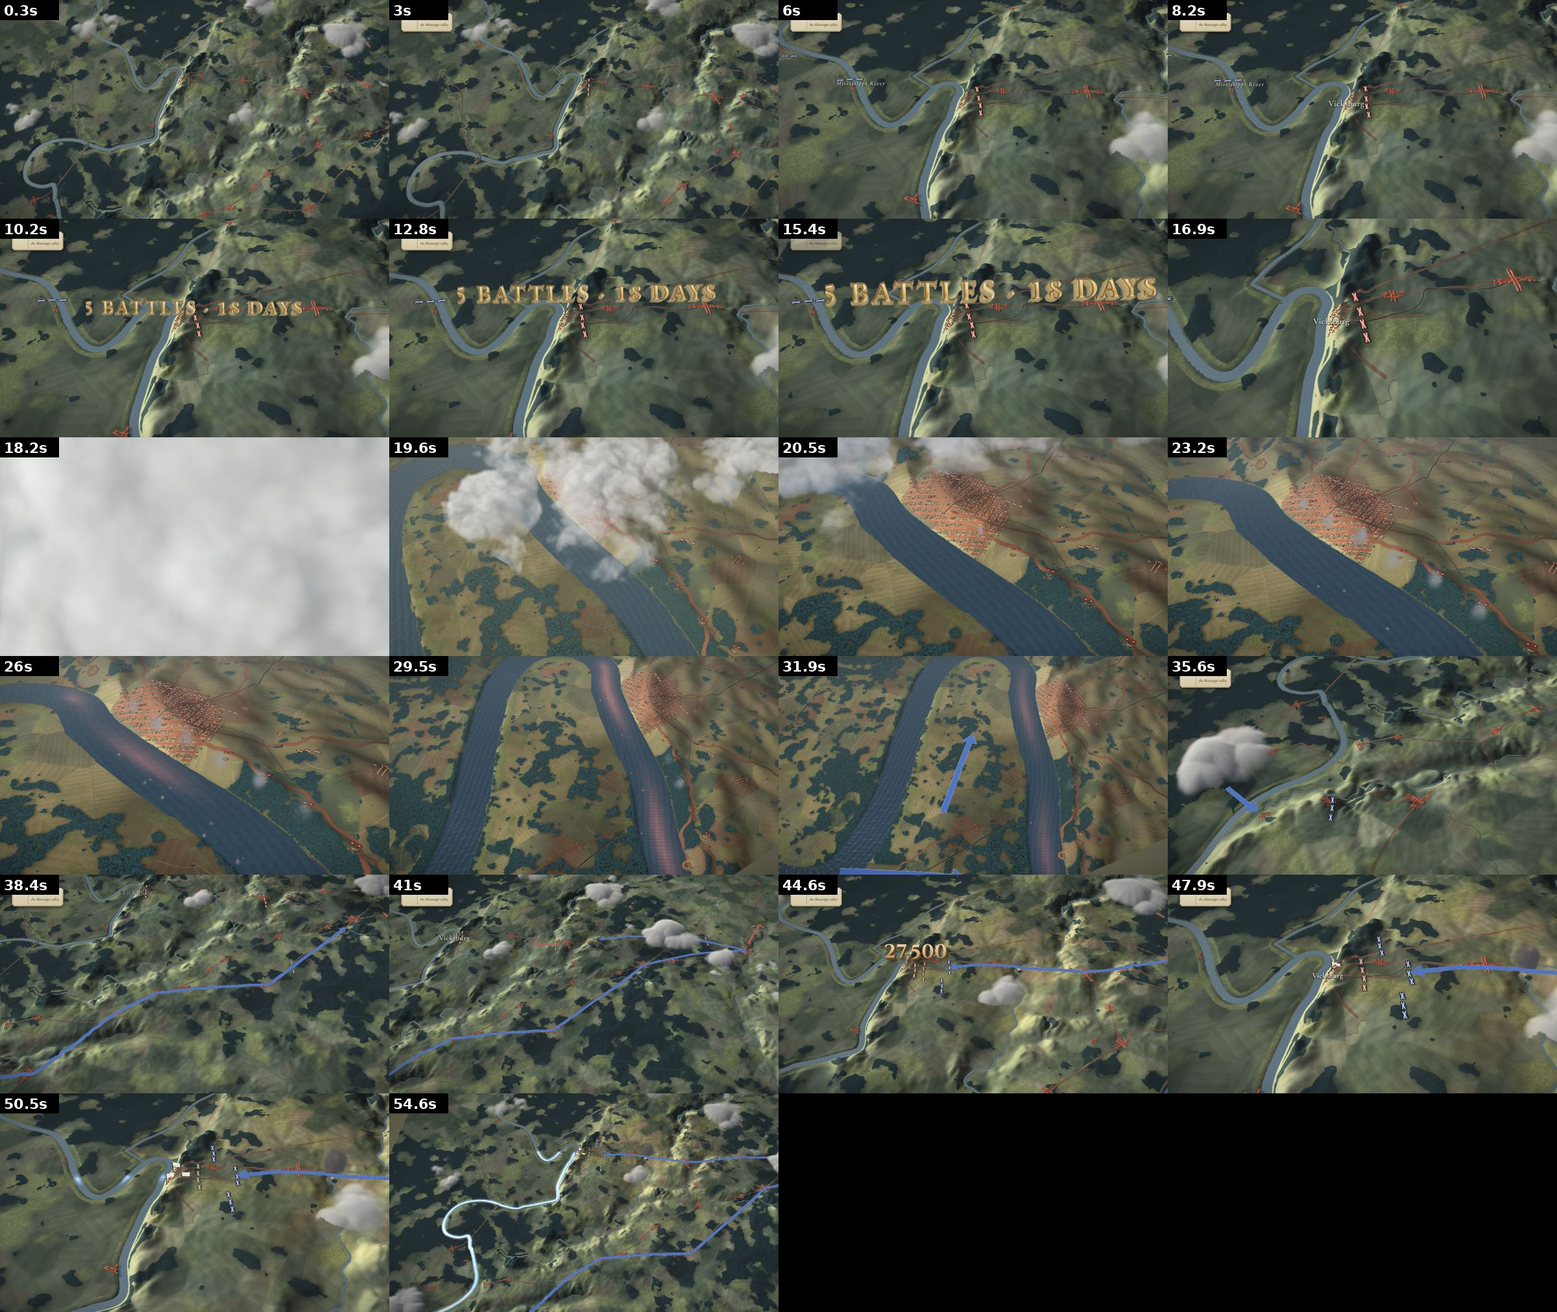
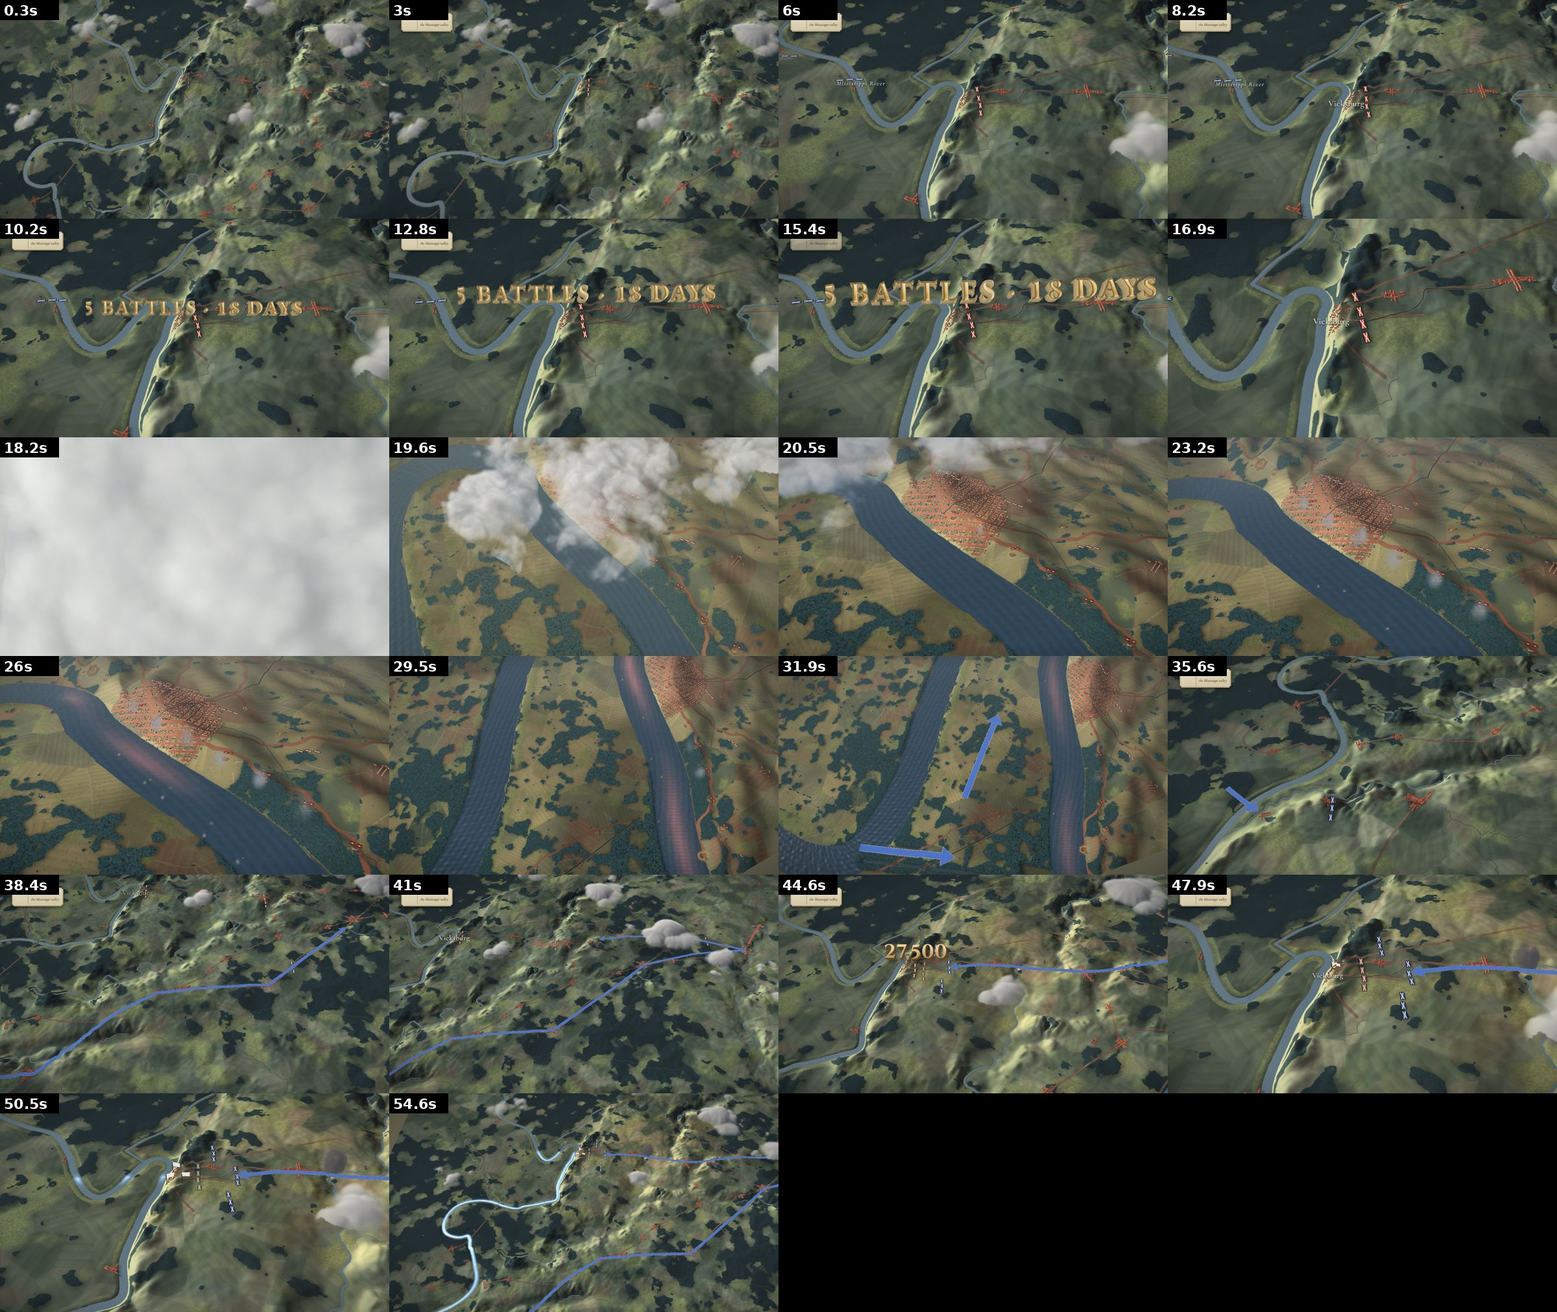
Vicksburg #19: scenes S01 cold open + S03 night run; cues accept singular fx kinds in list form
Claude-Session: https://claude.ai/code/session_011uJnjA7y1mRFw6KPGY1APG

Changed region(s): [[0.25, 0.4985, 0.8125, 0.6855], [0.4375, 0.8412, 0.5, 0.9036], [0.25, 0.9659, 0.2812, 1.0]]

diff --git a/vicksburg/sequences/S02/seq.js b/vicksburg/sequences/S02/seq.js
@@ -118,13 +118,12 @@ const arrows = [
   { region: WD, side: R, pts: [[1060, 742], [1180, 730], [1290, 712], [1372, 694]], t0: T.southC, dur: 1.2, t1: 65.6, width: 0.42 },
   // E: Chickasaw Bayou: the attack on the bluffs
   { region: WD, side: U, pts: [[1382, 600], [1392, 612], [1402, 624], [1410, 632]], t0: T.attacked, dur: 1.2, t1: T.thrown + 0.6, width: 0.42 },
-  // E: Grant's Canal across De Soto Point; the Duckport canal; the Yazoo routes from the north through the flooded forests (stopped short)
-  { region: WD, side: U, pts: [[1323, 694], [1334, 700], [1346, 707], [1358, 714]], t0: T.canals, dur: 1.2, t1: T.failed + 0.6, width: 0.36 },
-  { region: WD, side: U, pts: [[1284, 644], [1270, 664], [1252, 690], [1236, 716]], t0: T.bends - 0.2, dur: 1.2, t1: T.failed + 0.6, width: 0.32 },
-  { region: WD, side: U, pts: [[1410, 352], [1424, 400], [1438, 450], [1448, 494], [1452, 516]], t0: T.cutThrough, dur: 1.6, t1: T.failed + 0.6, width: 0.4 },
+  // E: Grant's Canal across De Soto Point; the Yazoo routes from the north through the flooded forests (stopped short)
+  { region: WD, side: U, pts: [[1323, 694], [1334, 700], [1346, 707], [1358, 714]], t0: T.canals, dur: 1.2, t1: T.failed + 0.6, width: 0.24 },
+  { region: WD, side: U, pts: [[1492, 424], [1482, 458], [1468, 490], [1454, 516]], t0: T.cutThrough, dur: 1.6, t1: T.failed + 0.6, width: 0.4 },
   // G: the plan: down the west bank; the fleet past the guns; the crossing
   { region: WD, side: U, pts: WBthin.filter((_, i) => i % 3 === 0 || i === WBthin.length - 1), t0: T.march, dur: T.city + 0.4 - T.march, t1: D + 1, width: 0.42 },
-  { region: WD, side: U, pts: RIV_RUN, t0: T.run, dur: 3.2, t1: D + 1, width: 0.36 },
+  { region: WD, side: U, pts: RIV_RUN, t0: T.run, dur: 3.2, t1: D + 1, width: 0.28 },
   { region: WD, side: U, pts: [[HT[0] - 4, HT[1] + 16], [HT[0] + 12, HT[1] + 30], [GG[0] + 4, GG[1] + 6]], t0: T.carry - 0.2, dur: 1.0, t1: D + 1, width: 0.48 },
   // H: Sherman's alternative: back north and try again by land (a thin ghost arrow off the top of the map)
   { region: WD, side: U, pts: [[MB[0] + 6, MB[1] - 4], [MB[0] + 10, MB[1] - 50], [MB[0] + 2, MB[1] - 110], [MB[0] - 6, MB[1] - 170]], t0: T.backNorth, dur: 1.4, t1: T.but + 0.6, width: 0.3 },
@@ -143,7 +142,7 @@ const fx = {
 
 // ---------------- the boats ----------------
 const boats = [
-  { region: VB, kind: "steamer", n: 1, size: 0.55, path: RIVC, sAt: () => 0, t0: 22.6, t1: CUT2, lamp: false },   // (sAt replaced below)
+  { region: VB, kind: "steamer", n: 1, size: 0.95, path: RIVC, sAt: () => 0, t0: 22.6, t1: CUT2, lamp: false },   // (sAt replaced below)
   // G: the fleet runs down past the city to Hard Times (plan, wide)
   { region: WD, kind: ["gunboat", "gunboat", "gunboat", "steamer", "steamer"], n: 5, size: 3.6, path: RIV_RUN,
     sAt: (t, i) => Math.max(0, (t - T.run) * 34 - i * 9), t0: T.navy, t1: D + 1, lamp: false },
@@ -153,45 +152,47 @@ boats[0].sAt = (t) => sSm(t);
 // ---------------- camera ----------------
 const keys = [
   // A: the river from altitude
-  { t: 0, region: WD, at: [1262, 842], dist: 840, tilt: 36, yaw: 1, fov: 30 },
-  { t: 10.8, region: WD, at: [1258, 860], dist: 800, tilt: 38, yaw: 0, fov: 30 },
-  { t: CUT1, region: WD, at: [1262, 820], dist: 720, tilt: 40, yaw: -1, fov: 30 },
+  { t: 0, region: WD, at: [1336, 846], dist: 620, tilt: 38, yaw: 0, fov: 30 },
+  { t: 10.8, region: WD, at: [1332, 856], dist: 600, tilt: 38, yaw: 0, fov: 30 },
+  { t: CUT1, region: WD, at: [1334, 826], dist: 570, tilt: 40, yaw: -1, fov: 30 },
   // B: the bend + the bluffs
-  { t: CUT1, region: VB, at: [1356, 676], dist: 92, tilt: 46, yaw: -28, fov: 32, ease: "cut" },
+  { t: CUT1, region: VB, at: [1358, 678], dist: 88, tilt: 40, yaw: -28, fov: 32, ease: "cut" },
   { t: 28.0, region: VB, at: [1366, 674], dist: 78, tilt: 48, yaw: -40, fov: 32 },
   { t: 33.0, region: VB, at: [1376, 678], dist: 70, tilt: 50, yaw: -52, fov: 32 },
-  { t: 39.2, region: VB, at: [1368, 676], dist: 96, tilt: 44, yaw: -20, fov: 32 },
+  { t: 39.2, region: VB, at: [1368, 676], dist: 92, tilt: 40, yaw: -20, fov: 32 },
   // C: the city + Pemberton
   { t: 44.0, region: VB, at: [1388, 681], dist: 52, tilt: 50, yaw: -48, fov: 32 },
   { t: 51.6, region: VB, at: [1390, 680], dist: 48, tilt: 51, yaw: -56, fov: 32 },
   { t: CUT2, region: VB, at: [1382, 676], dist: 72, tilt: 47, yaw: -40, fov: 32 },
   // D: the stakes line (wide, the map tilts)
-  { t: CUT2, region: WD, at: [1300, 800], dist: 700, tilt: 42, yaw: 0, fov: 30, ease: "cut" },
-  { t: 64.4, region: WD, at: [1300, 820], dist: 640, tilt: 28, yaw: 4, fov: 30 },
+  { t: CUT2, region: WD, at: [1320, 820], dist: 620, tilt: 42, yaw: 0, fov: 30, ease: "cut" },
+  { t: 64.4, region: WD, at: [1324, 830], dist: 600, tilt: 30, yaw: 3, fov: 30 },
   // E: the north of the city: Chickasaw Bayou, Grant's Canal, the Yazoo
   { t: 68.4, region: WD, at: [1366, 628], dist: 330, tilt: 44, yaw: 0, fov: 30 },
   { t: 76.6, region: WD, at: [1376, 626], dist: 300, tilt: 46, yaw: -2, fov: 30 },
-  { t: 81.6, region: WD, at: [1366, 640], dist: 340, tilt: 45, yaw: -1, fov: 30 },
-  { t: 86.6, region: WD, at: [1374, 610], dist: 380, tilt: 44, yaw: 0, fov: 30 },
+  { t: 79.0, region: WD, at: [1356, 662], dist: 330, tilt: 45, yaw: -1, fov: 30 },
+  { t: 81.4, region: WD, at: [1360, 664], dist: 326, tilt: 45, yaw: -1, fov: 30 },
+  { t: 84.6, region: WD, at: [1412, 596], dist: 360, tilt: 44, yaw: 0, fov: 30 },
+  { t: 87.0, region: WD, at: [1400, 606], dist: 380, tilt: 44, yaw: 0, fov: 30 },
   // F: the Union camps at Young's Point / Milliken's Bend (name moment)
   { t: 91.0, region: WD, at: [1282, 646], dist: 250, tilt: 47, yaw: -2, fov: 30 },
   { t: 102.6, region: WD, at: [1272, 660], dist: 236, tilt: 48, yaw: -4, fov: 30 },
   // G: the plan
-  { t: 107.0, region: WD, at: [1258, 790], dist: 520, tilt: 44, yaw: 0, fov: 30 },
-  { t: 116.8, region: WD, at: [1270, 800], dist: 500, tilt: 45, yaw: -1, fov: 30 },
-  { t: 124.2, region: WD, at: [1282, 770], dist: 640, tilt: 42, yaw: 0, fov: 30 },
+  { t: 107.0, region: WD, at: [1290, 790], dist: 500, tilt: 44, yaw: 0, fov: 30 },
+  { t: 116.8, region: WD, at: [1300, 836], dist: 480, tilt: 45, yaw: -1, fov: 30 },
+  { t: 124.2, region: WD, at: [1306, 770], dist: 620, tilt: 42, yaw: 0, fov: 30 },
   // H: Sherman's letter
-  { t: D, region: WD, at: [1270, 700], dist: 600, tilt: 42, yaw: 2, fov: 30 },
+  { t: D, region: WD, at: [1300, 716], dist: 590, tilt: 42, yaw: 2, fov: 30 },
 ];
 
 const W1 = "#3C6E9E", R1 = "#9C3A35";
 window.SEQ = {
   name: "S02", D, T, seed: 1862, date: "1863-03-01",
   regions: [WD, VB],
-  regionOpts: { [WD]: { troopScale: 22 }, [VB]: { troopScale: 2.2 } },
+  regionOpts: { [WD]: { troopScale: 17 }, [VB]: { troopScale: 3.2 } },
   keys,
   clouds: {
-    [WD]: { keepClear: [[1260, 840, 120, 1, 0.7], [1383, 680, 60, 1, 0.6], [1380, 620, 70, 1, 0.6], [1280, 650, 60, 1, 0.6], [1230, 900, 70, 1, 0.6]] },
+    [WD]: { scatter: { seed: 5 }, keepClear: [[1260, 840, 160, 1, 0.9], [1200, 760, 120, 1, 0.9], [1383, 680, 60, 1, 0.6], [1380, 620, 70, 1, 0.6], [1280, 650, 60, 1, 0.6], [1230, 900, 70, 1, 0.6]] },
     [VB]: { shadows: true },
   },
   units, arrows, boats, fx,
@@ -254,7 +255,7 @@ window.SEQ = {
     ["label", T.run, T.run + 3.4, { name: "The navy runs the guns", sub: "at night", world: [1350, 760], side: "us", marker: false }],
     ["label", T.carry, T.carry + 3.2, { name: "Across the river", world: [GG[0] + 6, GG[1] + 8], side: "us", marker: false }],
     ["label", T.enemy, T.enemy + 3.0, { name: "On the enemy's side", world: [1300, 900], side: "cs", marker: false }],
-    ["label", T.supply, D - 3.4, { name: "Every supply he had", sub: "behind the fortress", world: [MB[0], MB[1]], side: "us", marker: false, offset: [-330, -10] }],
+    ["label", T.supply, D - 3.4, { name: "Every supply he had", sub: "behind the fortress", world: [MB[0], MB[1]], side: "us", marker: false, offset: [36, 18] }],
     // H
     ["medallion", { kind: "card", general: "sherman", sub: "go back north · try again by land", screen: [1765, 215], tIn: T.shermanH, tOut: T.but - 0.3 }],
     ["letter", T.but, D + 1, { header: "8 April 1863 · near Vicksburg", title: "Sherman to Grant's staff", sub: "Sherman's Memoirs", cps: 34,

diff --git a/vicksburg/engine/seqlib.js b/vicksburg/engine/seqlib.js
@@ -61,7 +61,7 @@
   // ---------------- sound cues: [kind, t] for every VISIBLE shot / volley / fire / dive (assemble mixes only these) ----------------
   // gun = cannon (muzzle flash on screen), boom = impact, volley = musketry burst, fire = something catches fire, whoosh = cloud dive
   VX.cues = (S) => { const c = [], F = S.fx || {}, list = Array.isArray(F) ? F : null;
-    const each = (kind, fn) => { if (list) { for (const e of list) if (e.kind === kind || (kind === "smokeLines" && e.kind === "volleys")) fn(e); }
+    const each = (kind, fn) => { if (list) { for (const e of list) if (e.kind === kind || e.kind + "s" === kind || (kind === "smokeLines" && e.kind === "volleys")) fn(e); }
       else { for (const e of F[kind] || []) if (e) fn(e); if (kind === "smokeLines") for (const e of F.volleys || []) if (e) fn(e); } };
     each("guns", (g) => { for (const s0 of g.shots || []) { const s = typeof s0 === "number" ? { t: s0 } : s0; if (g.cue === false || s.cue === false) continue; c.push(["gun", s.t]);
       const imp = s.impact !== undefined ? s.impact : g.impact; if (imp && g.boom !== false && s.boom !== false) c.push(["boom", R6(s.t + (s.delay ?? g.delay ?? 0.85))]); } });

diff --git a/vicksburg/engine/overlay.js b/vicksburg/engine/overlay.js
@@ -464,7 +464,7 @@
       tl.fromTo(el.querySelector(".bg"), { scaleY: 0 }, { scaleY: 1, duration: 0.45, ease: "power3.out", immediateRender: false }, tIn);
       const parts = el.querySelectorAll(".hd,.tt,.sb,.orn"); gsap.set(parts, { autoAlpha: 0 });
       parts.forEach((p, i) => tl.fromTo(p, { autoAlpha: 0, y: 6 }, { autoAlpha: 1, y: 0, duration: 0.5, immediateRender: false }, tIn + 0.3 + i * 0.15));
-      const Q = el.querySelector(".q"), txt = `“${o.quote || ""}”`, cps = o.cps || 28, ty = { n: 0 };
+      const Q = el.querySelector(".q"), txt = o.marks === false ? String(o.quote || "") : `“${o.quote || ""}”`, cps = o.cps || 28, ty = { n: 0 };
       tl.fromTo(ty, { n: 0 }, { n: txt.length, duration: txt.length / cps, ease: "none", immediateRender: false, onUpdate: () => { const s = txt.slice(0, Math.round(ty.n)); if (Q.textContent !== s) Q.textContent = s; } }, tIn + 1.0);
       if (tOut != null) tl.to(el, { autoAlpha: 0, duration: 0.5 }, tOut); return O; };
 

diff --git a/vicksburg/sequences/S03/NOTES.md b/vicksburg/sequences/S03/NOTES.md
@@ -1,0 +1,39 @@
+# S03 the night of 16 April (D = 87.70 s): notes
+
+Regions: `vicksburg` (night) -> cut + 1 s night->day dissolve at 64.55 (between the paragraphs) -> `wide` (dawn). Build: `python3 vicksburg/tools/make_scene.py vicksburg/sequences/S03` (24.1 MB). Contact sheet: `sheet.jpg`.
+
+## The fleet
+10 vessels in the usual order: Benton (lead), Lafayette, Louisville, Mound City, Pittsburg, Carondelet (gunboats); Silver Wave, Henry Clay,
+Forest Queen (transports); Tuscumbia (last). Ran dark: no deck lamps; a faint cool sheen + pale wake sprite per hull so they read at night.
+Lead schedule (arc length on the close river): at anchor to "cast off" 4.15, up the NE leg, through the hairpin 27-34 ("slowing for the bend"),
+down the city front 34-44, then the gunboats hold and regroup below the city. Boats exaggerated (size 0.5) for readability.
+
+## Shot list
+| t | Picture | On its word |
+| --- | --- | --- |
+| 0-20 | night, camera behind the fleet on the NE leg looking up the bend | plaque 16 April 1863 (1.53); clock 10:00 at night on "ten o'clock" (3.15), runs to 10:30; boats cast off 4.15; Porter card (6.09-12.2); label "Benton · the flagship" following the boat (8.11); label "Three transports · boilers padded with cotton and hay" (13.09) |
+| 20-37 | the whole bend, the city on the bluff | batteries open on "Guns opened" (22.31) and keep firing at the nearest boats until dawn (50 battery shots, each flash = gun cue, shot falls in the river near a boat); clock label "Night" + note "The batteries open"; 7 house fires on both banks from "houses" (25.35-29.5, fire cues) + bonfires at the foot of the bluff from "bonfires" (campfires), their light on the water; 7 return shots from the gunboats 29.4-40.6; note "Under fire for over two hours" on "two hours" |
+| 37.5-43.4 | closer on the transports | oval inset "Running the batteries" (LoC, same image as v8) |
+| 42.83-48.7 | the Henry Clay disabled (slows to the current) | label "Henry Clay · disabled · abandoned" following her |
+| 47.47 | a shell bursts in her cotton: moving fire (flames, embers, glow on the water, smoke) | label "Henry Clay · a shell in her cotton" |
+| 50.5-64.5 | she swings into the current and drifts down past the holding fleet, burning | "past the fleet" ~55-57 |
+| 56.81-59.6 | | Grant card "watching from a transport above the city" |
+| 59.87-64.3 | | quote "The sight was magnificent, but terrible." (Grant, Personal Memoirs), centred on a dim |
+| 64.55-65.55 | cut to the wide map, night -> dawn dissolve; the fleet at anchor below the city near New Carthage; Vicksburg (red) still holds | plaque 17 April "by morning" (65.07); blue route arrow city -> anchorage on "fleet" (65.69); "Vicksburg" (66.55) |
+| 65.7-86 | slow drift | ledger: Fleet below Vicksburg (66.19), 1 transport lost · the Henry Clay (68.51), None killed · on the transports · by Grant's count (71.17); plaque 22 April "six nights later" (74.53); route arrow leaves, six steamers run down the river (75.43); ledger "More steamers run the guns · with supplies · volunteer crews" (76.01); final stamp "Volunteers five times over" (84.65) |
+
+Cues: 57 gun (50 battery + 7 gunboat), 7 fire (`scenes/S03/cues.json`).
+
+## Sources
+Facts: `research/FACT_NOTES.md` "Run of 16 Apr" (GM ch. XXXII; SM; FACTCHECK_B). Inset `inset_run.jpg` = the Library of Congress print used by the
+approved v8 clip (copied from `sequences/test_v8/`). Quote: Grant, Personal Memoirs.
+
+## Open issues
+- Script vs facts: the narration says Porter led in the Benton "with five more gunboats" (6); FACT_NOTES lists SEVEN gunboats (+ the General Price
+  lashed to the Lafayette). The picture shows 7 gunboats + 3 transports; the ledger avoids a gunboat count. The lead may want to fix the line.
+- The night is the engine's moonlit grade; FACT_NOTES says no moonlight is documented for 16 April (no moon, no fog added).
+- The clock does not give a time for the opening of the batteries (not in FACT_NOTES): it shows "Night" from 22.3.
+- The Henry Clay's fire is a custom sprite fire (flames/embers/glow/smoke) that follows her; it reads as a bright flame blob at this distance,
+  its smoke is faint at night. Her hull disappears at 55 s (burned to the waterline), the fire stays on the water to dawn.
+- The disabled Henry Clay drifts faster than a real current (needed to pass the fleet within the narration).
+- Coal barges and the General Price are not modelled.

diff --git a/vicksburg/sequences/S01/NOTES.md b/vicksburg/sequences/S01/NOTES.md
@@ -1,0 +1,40 @@
+# S01 cold open (D = 55.32 s): notes
+
+Regions: `wide` -> (dive) `vicksburg` -> (cut on the paragraph change, 33.62) `wide`. Build: `python3 vicksburg/tools/make_scene.py vicksburg/sequences/S01` (23.8 MB). Contact sheet: `sheet.jpg`.
+
+## Shot list (local scene time; words from `tools/scene_times.py S01 --words`)
+| t | Picture | On its word |
+| --- | --- | --- |
+| 0.0-8.1 | wide map from altitude (dist 640 -> 300), ONE continuous push-in down the river onto the city; the red garrison boxes at Vicksburg from frame 1, clean first frame | plaque "Spring 1863" on "spring" (0.82); 2 blue groups + 3 boats above the city on "Union" (4.56); "Mississippi River" (5.42); "Vicksburg" place name on "Vicksburg" (7.74), the push ends at 8.1 |
+| 8.1-14.7 | the camera settles and drifts over the city | 3D gold title **5 BATTLES · 18 DAYS** (Cinzel, lining figures) lands on "eighteen" 9.80 / "days" 10.02, grows to 10.4, readable through "five battles" (12.44-13.3) to ~15.3 |
+| 14.7-18.5 | the cloud dive (push 14.7, title flies past the lens, deck 16.8, white-out 17.95, swap 18.5); whoosh cue 16.95 | "with no supply line ... two Confederate armies" over the dive |
+| 19.35-21.85 | emergence over the river at the city (vicksburg close), camera west of the river looking ENE at the bluffs | |
+| 20.42-27.8 | 12 battery shots along the bluff batteries (flash + plume, shot falls in the river; gun cues, no boom) | first shot on "guns" (20.36) |
+| 25.2-32.6 | red pulse running down the river from the city front | on "closed" (25.44) |
+| 30.3-33.3 | camera pulls up over De Soto Point: two blue thrusts (Grant's canal, across the point) grow and stop short, fade | "Every Union attempt ... had failed" |
+| 33.62 | cut to the wide map (montage) | plaque back |
+| 34.78 | blue arrow across the river below the city (Louisiana shore -> Bruinsburg) + blue group | "crossed" |
+| 37.06-39.8 | long blue arrow inland Bruinsburg - Port Gibson - Rocky Springs - Utica - Raymond - Jackson, camera follows NE | "turned its back on Vicksburg" (+ "Vicksburg" label 38.14) |
+| 39.2-41.9 | red at Jackson driven off NE (red arrow), red at Edwards driven back west (the split) | "marched inland" |
+| 40.0-43.0 | the arrow swings back west Jackson - Clinton - Bolton - Champion Hill - Big Black - the city | |
+| 41.3 | the Big Black bridge burns as the march passes (fire cue) | "nine weeks" |
+| 43.4-44.9 | two blue groups close round the city | |
+| 43.93-47.3 | gold number 29,500 counts up over the city | "nearly thirty thousand" |
+| 45.9-47.5 | the garrison marches out a few hundred metres, turns grey (stacks arms) | "marched out" / "stacked" (cap 47.52) |
+| 47.6-48.2 | three white flags rise over the city | "stacked their arms" |
+| 49.4-55.32 | pull back over the valley (dist 250 -> 720); from "campaign" (50.7) the Mississippi glows blue from Vicksburg south, complete on "two" (53.14); picture alive to the end | |
+
+No Grant name, portrait or banner anywhere in S01. Cues: 12 gun, 1 fire, 1 whoosh (`scenes/S01/cues.json`).
+
+## Engine changes (backward-compatible, documented in engine/README.md)
+- `title.font`: optional woff2 for the 3D title (Cormorant's old-style "5"/"18" read as lowercase; S01 uses Cinzel 700).
+- (S03) `boats[].sAt(t, i)` arc-length schedule; overlay `world: (t) => [x, y, h]` anchors that follow a moving thing.
+- LESSONS: `S.draw` runs after the render (use an fx custom emitter for per-frame scene changes); `fx.custom` must be registered in
+  `build`; the ordered-list `fx` form gets no cues (`VX.cues` kind names differ from scene.js); wide-map fires need `size: 16`.
+
+## Open issues
+- The title says "5 BATTLES" from "eighteen days" (9.8), before "five battles" is spoken (12.44): as briefed by the lead.
+- The red "closed river" pulse reads pinkish on the blue water; the blue end glow is a pale cyan line (both custom additive sprites).
+- White flags are simple planes (no cloth animation beyond a small sway); readable at dist 250 only.
+- At 30.6-33.6 a sliver of the region's south-east edge can show in the bottom-right corner (the vicksburg bundle ends at y 715).
+- Five battle sites are not marked individually (the title carries the count); the montage arrows stay on the wide map to the end.

diff --git a/vicksburg/engine/README.md b/vicksburg/engine/README.md
@@ -164,6 +164,18 @@ keep units <= ~250 boxes per region (instanced, `max` 256 in `createBoxes3D`), s
 - Labels on wide shots: names under the 3D title hide, names under clouds dim; keep river names italic (`river: true`).
 - Boxes / arrows sizes are map units scaled by `troopScale`: a close camera at dist 25-40 suits 1, the wide map at 400-650 suits ~10.
 
+- `S.draw(t, ctx)` runs AFTER the frame has rendered: anything that must change in the 3D scene for this frame (a mesh's visibility, a
+  custom moving fire) belongs in an fx custom emitter (`ctx.FX[region].custom((t, push) => ...)` from `build`), which runs in beforeRender.
+  `fx.custom` entries are not part of the grouped `fx` object (fires/smokeLines/...): register them in `build` (S01, S03 do).
+- The ordered-list form of `fx` (`[{kind, ...}]`) gets NO sound cues from `VX.cues` (it looks for kind "guns"/"fires", the scene for
+  "gun"/"fire"): use the grouped object form until that is reconciled.
+- Fires on the wide map (fxScale 40) are tiny with the default presets: a burning bridge seen at dist 250-700 needs `preset: "column",
+  opts: { size: 16 }` (S01) to read as a flame at the river.
+- `title.font` picks another woff2 for the 3D title: Cormorant's figures are old-style ("5", "18" look like lowercase), use Cinzel for digits.
+
+- `O.letter(..., { marks: false })` types the quote text as given (no automatic curly quotes around it): for a paraphrased
+  message with only a few words in quote marks (S06 Sherman: this road will be jammed, "as sure as life."). Default unchanged.
+
 ## Regression numbers (t: mean |diff| / p99 / % px > 24)
 3 s 0.32 / 2 / 0.26 (plaque size, see LESSONS) · 9 s 0.01 · 12 s 0.00 · 15.5 s 0.00 · 17.5 s 0.57 / 1 / 0.11 · 22 s 0.24 / 1 / 0.30 ·
 31.5 s 0.09 · 35.2 s 0.07 · 50 s 0.01 · 60.5 s 0.05. The remaining diffs are the banner portraits' resampling (sub-pixel) and
